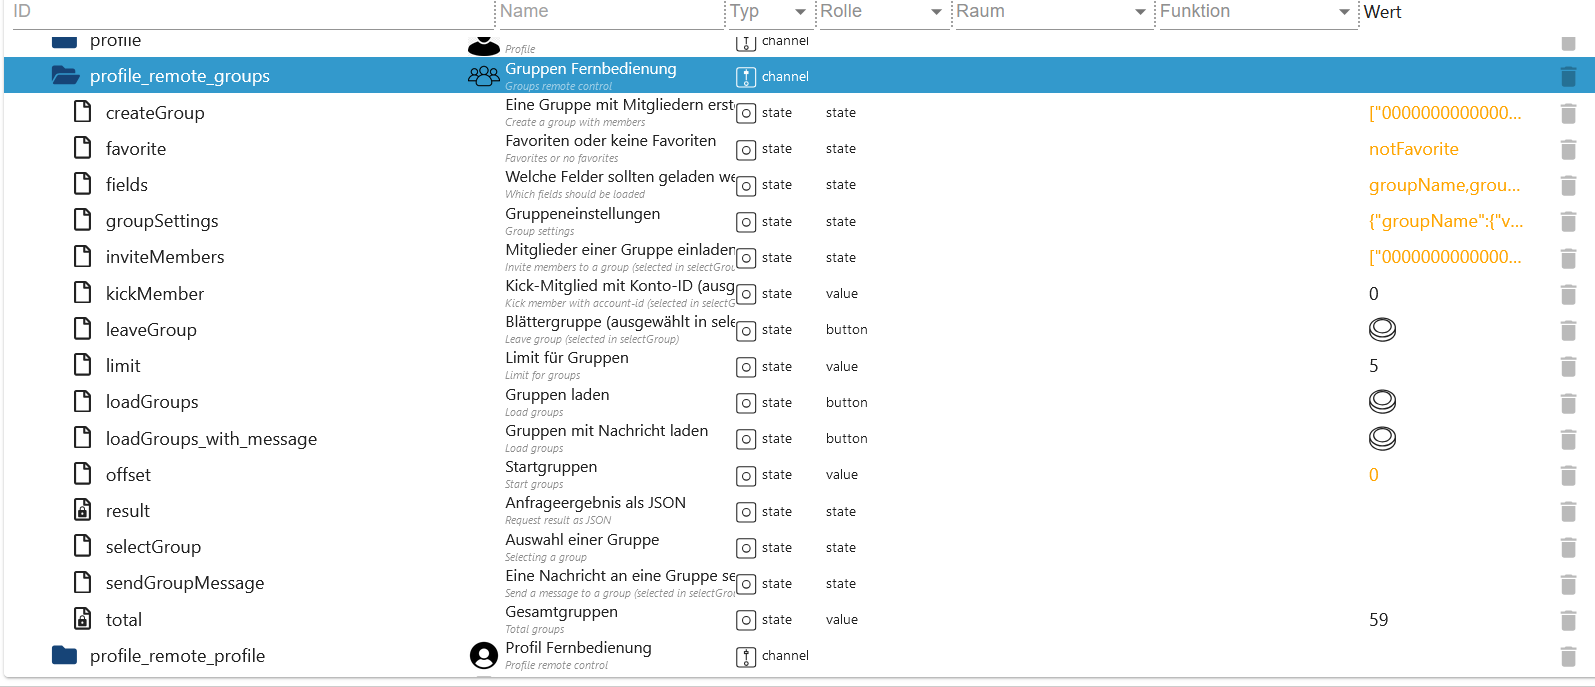
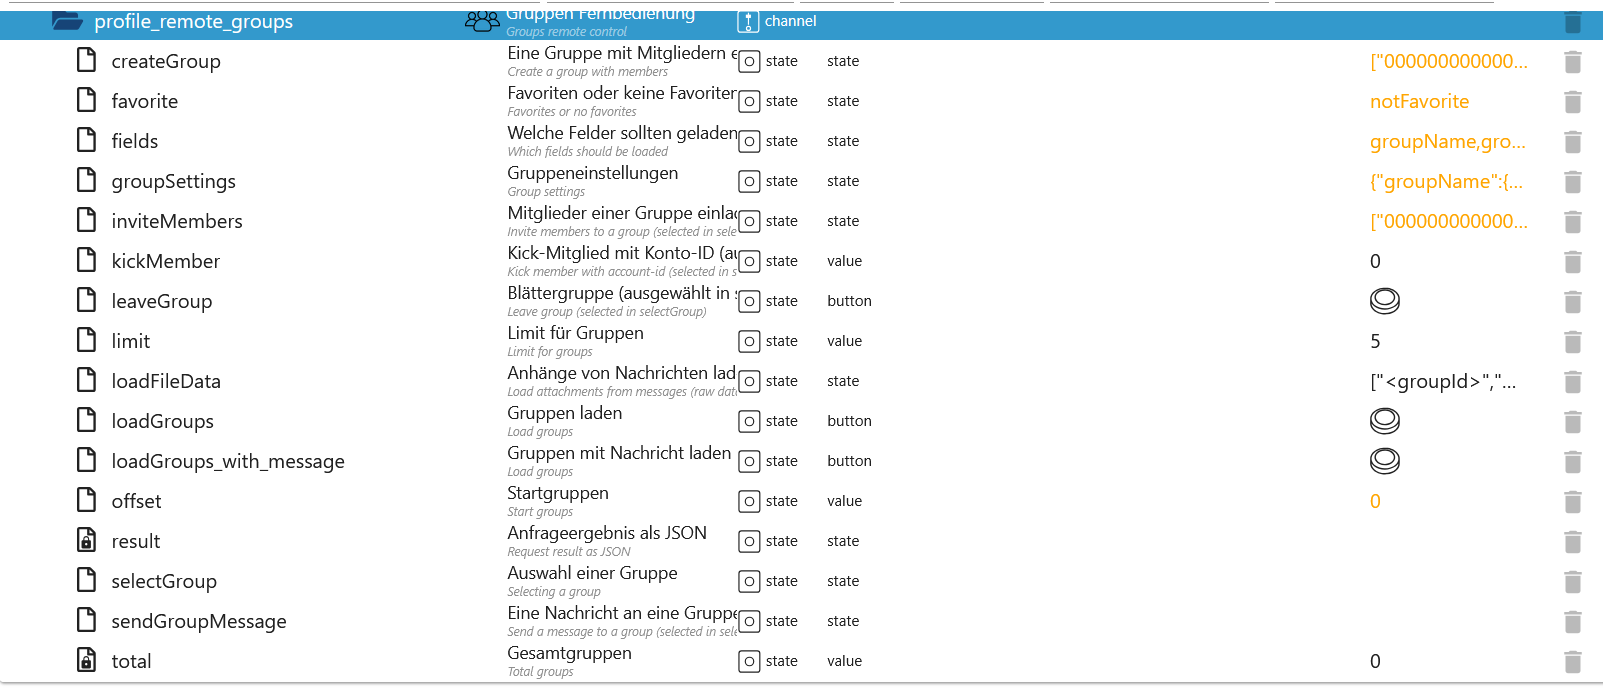
add share profile & load attachments

diff --git a/lib/helper.js b/lib/helper.js
@@ -298,6 +298,34 @@ module.exports = {
         };
         await this.createDataPoint(`profile_remote_groups.createGroup`, common, "state", null, null);
         common = {
+            type: "string",
+            role: "state",
+            name: {
+                en: "Load attachments from messages (raw data)",
+                de: "Anhänge von Nachrichten laden (Rohdaten)",
+                ru: "Загрузить вложения из сообщений (обычные данные)",
+                pt: "Carregar anexos de mensagens (dados de rastreamento)",
+                nl: "Bijlagen uit berichten laden (raw data)",
+                fr: "Charger les pièces jointes des messages (données brutes)",
+                it: "Caricare gli allegati dai messaggi (dati bassi)",
+                es: "Cargar adjuntos de mensajes (datos de rocío)",
+                pl: "Wczytaj załączniki z wiadomości (dane surowe)",
+                uk: "Завантаження вкладення з повідомлень (відведення даних)",
+                "zh-cn": "从信件装入附件( 原始数据)",
+            },
+            desc: "Load attachments from messages (raw data)",
+            read: true,
+            write: true,
+            def: JSON.stringify(["<groupId>", "<resourceId>"]),
+        };
+        await this.createDataPoint(
+            `profile_remote_groups.loadFileData`,
+            common,
+            "state",
+            JSON.stringify(["<groupId>", "<resourceId>"]),
+            null,
+        );
+        common = {
             type: "number",
             role: "value",
             name: {
@@ -839,6 +867,28 @@ module.exports = {
             def: "",
         };
         await this.createDataPoint(`profile_remote_profile.search_game`, common, "state", "", null);
+        common = {
+            type: "mixed",
+            role: "value",
+            name: {
+                en: "Share profile with a friend (Account ID). A link to a QRcode is created.",
+                de: "Profil mit einem Freund teilen (Account ID). Es wird ein Link zu einem QRcode erstellt.",
+                ru: "Поделитесь профилем с другом (Account ID). Создается ссылка на QRcode.",
+                pt: "Compartilhar perfil com um amigo (Account ID). Um link para um QRcode é criado.",
+                nl: "Profiel delen met een vriend (Account ID). Een link naar een QRcode wordt aangemaakt.",
+                fr: "Partager un profil avec un ami (identifiant de compte). Un lien vers un QRcode est créé.",
+                it: "Condividere il profilo con un amico (Account ID). Viene creato un link a un QRcode.",
+                es: "Compartir perfil con un amigo (ID de cuenta). Se crea un enlace a un código QRcode.",
+                pl: "Podziel się profilem z przyjacielem (ID konta). Powstaje link do kodu QRCode.",
+                uk: "Профіль спільного з другом Створено посилання на QR-код.",
+                "zh-cn": "与朋友共享配置( 账户 ID) 。 创建了QRcode的链接.",
+            },
+            desc: "Share profile with a friend (Account ID). A link to a QRcode is created.",
+            read: true,
+            write: true,
+            def: 0,
+        };
+        await this.createDataPoint(`profile_remote_profile.shareProfile`, common, "state", 0, null);
         common = {
             type: "number",
             role: "value",

diff --git a/lib/requests_group.js b/lib/requests_group.js
@@ -253,4 +253,47 @@ module.exports = {
         const resp = await this.requestPSN(methode, url, this.getHeader, params, true);
         this.log.debug(`Invitees: ${JSON.stringify(resp.data)}`);
     },
+    async groupMembers(groupId, constants) {
+        this.getHeader.headers["Content-Type"] = "application/json;charset=utf-8";
+        const methode = "get";
+        const params = {
+            params: {
+                includeFields:
+                    "groupName,groupIcon,members,mainThread,joinedTimestamp,modifiedTimestamp,isFavorite,existsNewArrival,notificationSetting",
+            },
+        };
+        const url = `${constants.BASE_PATH.gaming_lounge}${constants.API_PATH.group_members.replace("{group_id}", groupId)}`;
+        const resp = await this.requestPSN(methode, url, this.getHeader, params, true);
+        this.log.debug(`GroupMember: ${JSON.stringify(resp.data)}`);
+        if (resp && resp.data && resp.data) {
+            await this.setState(`profile_remote_groups.result`, { val: JSON.stringify(resp.data), ack: true });
+        } else {
+            await this.setState(`profile_remote_groups.result`, { val: JSON.stringify({}), ack: true });
+        }
+    },
+    async loadFileData(val, constants) {
+        let data = [];
+        try {
+            data = JSON.parse(val);
+        } catch (e) {
+            this.log.warn(`Parse error: ${e}`);
+            return;
+        }
+        const methode = "get";
+        const header = Object.assign({}, this.getHeader);
+        header.headers["Content-Transfer-Encoding"] = "binary";
+        const url = `${constants.BASE_PATH.gaming_lounge}${constants.API_PATH.group_resource.replace("{group_id}", data[0]).replace("{resource_id}", data[1])}`;
+        const resp = await this.requestPSN(methode, url, header, null, true);
+        this.log.debug(`Attachment: ${JSON.stringify(resp.data)}`);
+        if (resp && resp.data && resp.data) {
+            await this.setState(`profile_remote_groups.result`, { val: JSON.stringify(resp.data), ack: true });
+        } else {
+            await this.setState(`profile_remote_groups.result`, { val: JSON.stringify({}), ack: true });
+        }
+        //this.writeFile("0_userdata.0", "test.3gp", resp.data.toString(), error => {
+        //    if (error) {
+        //        this.log.error(`Fehler beim Speichern:${error}`);
+        //    }
+        //});
+    },
 };

diff --git a/main.js b/main.js
@@ -61,6 +61,7 @@ class Playstation extends utils.Adapter {
         this.getDeviceInfo = requests_profile.getDeviceInfo;
         this.presencesUser = requests_profile.presencesUser;
         this.allDocuments = requests_profile.allDocuments;
+        this.shareProfile = requests_profile.shareProfile;
         this.leaveGroup = requests_group.leaveGroup;
         this.loadGroups = requests_group.loadGroups;
         this.loadMessages = requests_group.loadMessages;
@@ -69,6 +70,7 @@ class Playstation extends utils.Adapter {
         this.createGroup = requests_group.createGroup;
         this.kickMember = requests_group.kickMember;
         this.sendGroupMessage = requests_group.sendGroupMessage;
+        this.loadFileData = requests_group.loadFileData;
         this.lang = "de-DE";
         this.app_agent = "";
         this.double_call = {};
@@ -639,6 +641,10 @@ class Playstation extends utils.Adapter {
                         this.createGroup(state, constants);
                         this.setAckFlag(id, { val: JSON.stringify(["0000000000000001", "0000000000000002"]) });
                         break;
+                    case "loadFileData":
+                        this.loadFileData(state.val, constants);
+                        this.setAckFlag(id, { val: JSON.stringify(["<groupId>", "<resourceId>"]) });
+                        break;
                     case "kickMember":
                         this.kickMember(state, constants);
                         this.setAckFlag(id, { val: 0 });
@@ -779,6 +785,10 @@ class Playstation extends utils.Adapter {
                     case "storeWishlist":
                         this.getStoreWishlist(constants);
                         this.setAckFlag(id, { val: false });
+                        break;
+                    case "shareProfile":
+                        this.shareProfile(state.val, constants);
+                        this.setAckFlag(id, { val: 0 });
                         break;
                     default:
                         this.log.warn(`Command ${lastsplit} unknown`);

diff --git a/lib/constants.js b/lib/constants.js
@@ -103,6 +103,7 @@ exports.BASE_PATH = {
     send_message: "https://de-gmsg.np.community.playstation.com/groupMessaging/v1/messageGroups/",
     storage_usage: "https://m.np.playstation.com/api/cloudAssistedNavigation/v2/users/me/clients",
     ugc_document: "https://m.np.playstation.com/api/gameMediaService/v2/c2s",
+    cpss: "https://m.np.playstation.com/api/cpss",
 };
 
 exports.API_PATH = {
@@ -130,6 +131,7 @@ exports.API_PATH = {
     send_group_message: "/groups/{group_id}/threads/{group_id}/messages",
     conversation: "/members/me/groups/{group_id}/threads/{group_id}/messages",
     leave_group: "/groups/{group_id}/members/me",
+    group_resource: "/groups/{group_id}/resources/{resource_id}",
     // Game Title Details
     title_concept: "/{title_id}/concepts",
     // Trophy Endpoints
@@ -153,6 +155,8 @@ exports.API_PATH = {
     ugc_all: "/category/cloudMediaGallery/ugcType/all",
     ugc_id: "/ugc/{ugcId}/url",
     ugc_content: "/content",
+    // Share profile
+    share_profile: "/v1/share/profile/{account_id}",
 };
 exports.PlatformType = {
     UNKNOWN: "UNKNOWN",

diff --git a/lib/requests_profile.js b/lib/requests_profile.js
@@ -548,4 +548,16 @@ module.exports = {
             await this.setState(`profile_remote_profile.result`, { val: JSON.stringify({}), ack: true });
         }
     },
+    async shareProfile(accountId, constants) {
+        this.getHeader.headers["Content-Type"] = "application/json;charset=utf-8";
+        const methode = "get";
+        const url = `${constants.BASE_PATH.cpss}${constants.API_PATH.share_profile.replace("{account_id}", accountId.toString())}`;
+        const resp = await this.requestPSN(methode, url, this.getHeader, null, true);
+        this.log.debug(`RESP: ${JSON.stringify(resp.data)}`);
+        if (resp && resp.data) {
+            await this.setState(`profile_remote_profile.result`, { val: JSON.stringify(resp.data), ack: true });
+        } else {
+            await this.setState(`profile_remote_profile.result`, { val: JSON.stringify({}), ack: true });
+        }
+    },
 };

diff --git a/README.md b/README.md
@@ -88,6 +88,8 @@ You can wake up the Playstation or put it into standby mode. Some buttons are al
 ### **WORK IN PROGRESS**
 
 - (Lucky-ESA) Added groups and messages
+- (Lucky-ESA) Added: Share Profile
+- (Lucky-ESA) Load attachments from messages (raw data)
 
 ### 0.0.1 (2025-01-23)
 
